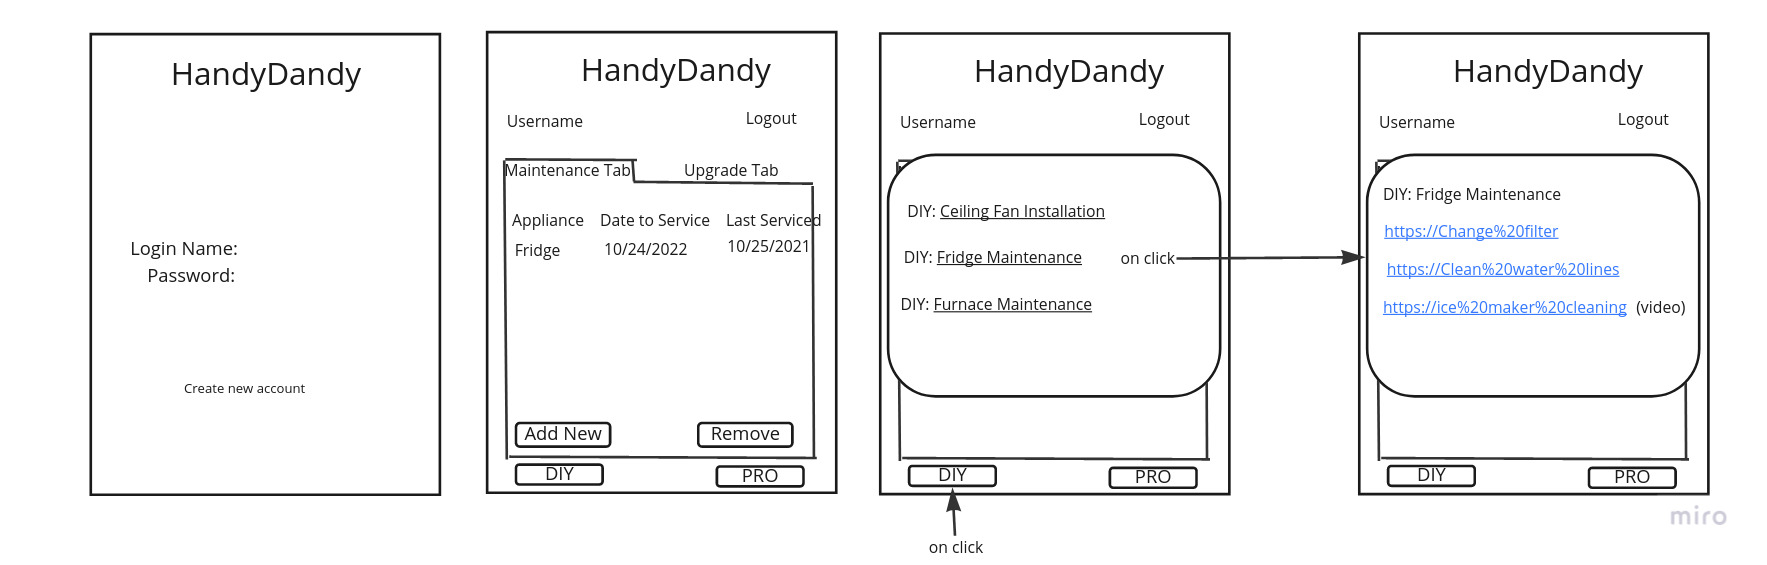
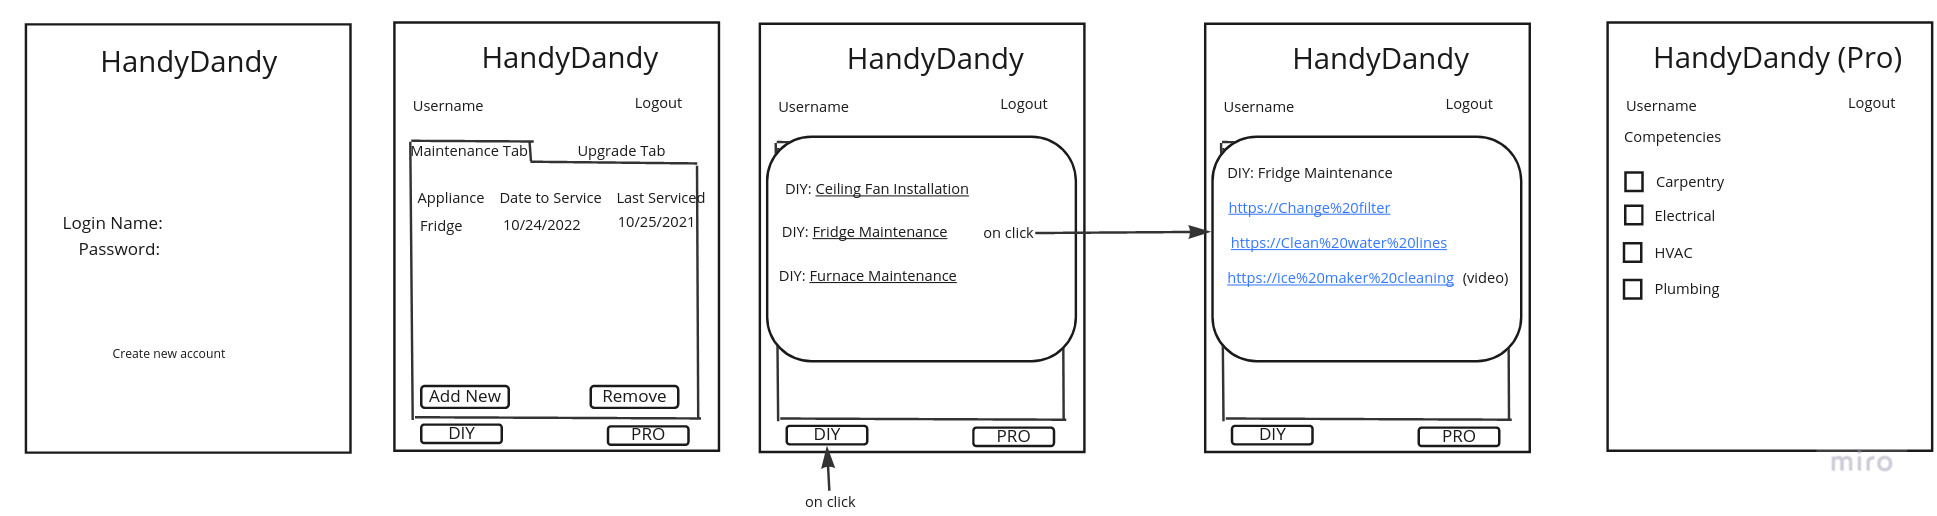
Adding wireframes.

diff --git a/README.md b/README.md
@@ -2,6 +2,9 @@
 
 HandyDandy is an app for people in need of home maintenance or have desires to upgrade their home, as well as Professionals who want to offer their services. It allows users track and schedule preventative maintenance, as well as any home upgrades that have been wanted, scheduled, or completed. Users will be given the option to choose to DIY, which will provide video and written instructions, or choose to hire a pro in the local area. Pro users will be able to select their competencies, so users can easily find and hire them.
 
+## Wireframes
+![Handy Dandy Wireframes](HandyDandyWireframes.jpg)
+
 ## [User Stories](user_stories.md)
 
 ## Getting Started
